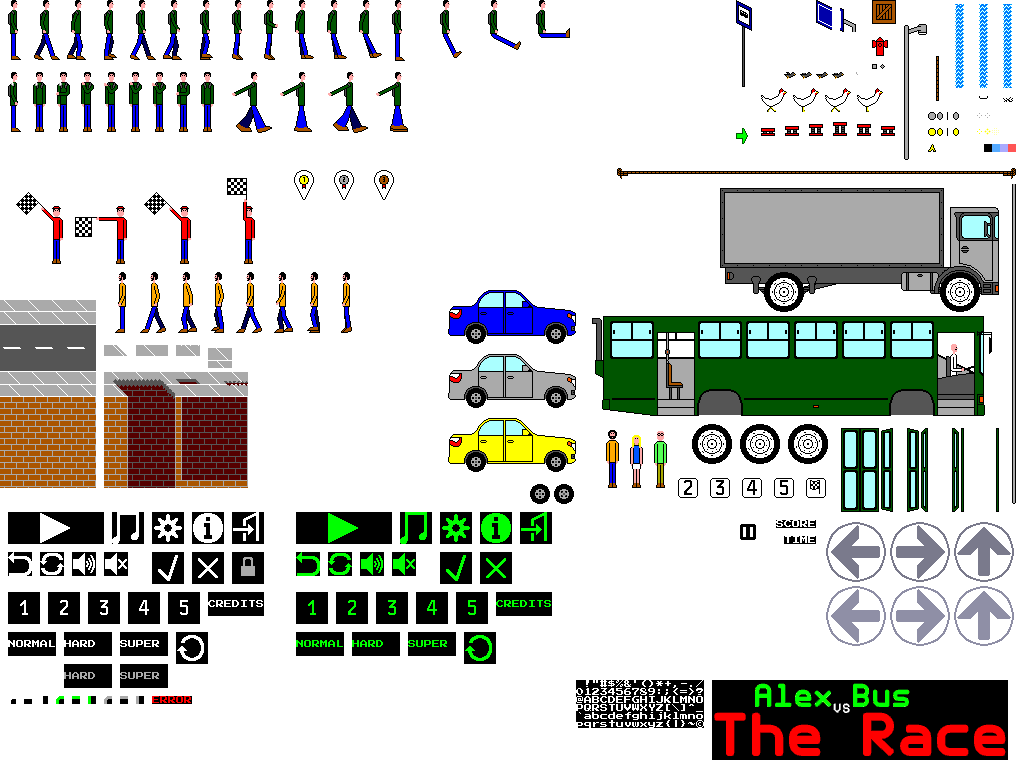
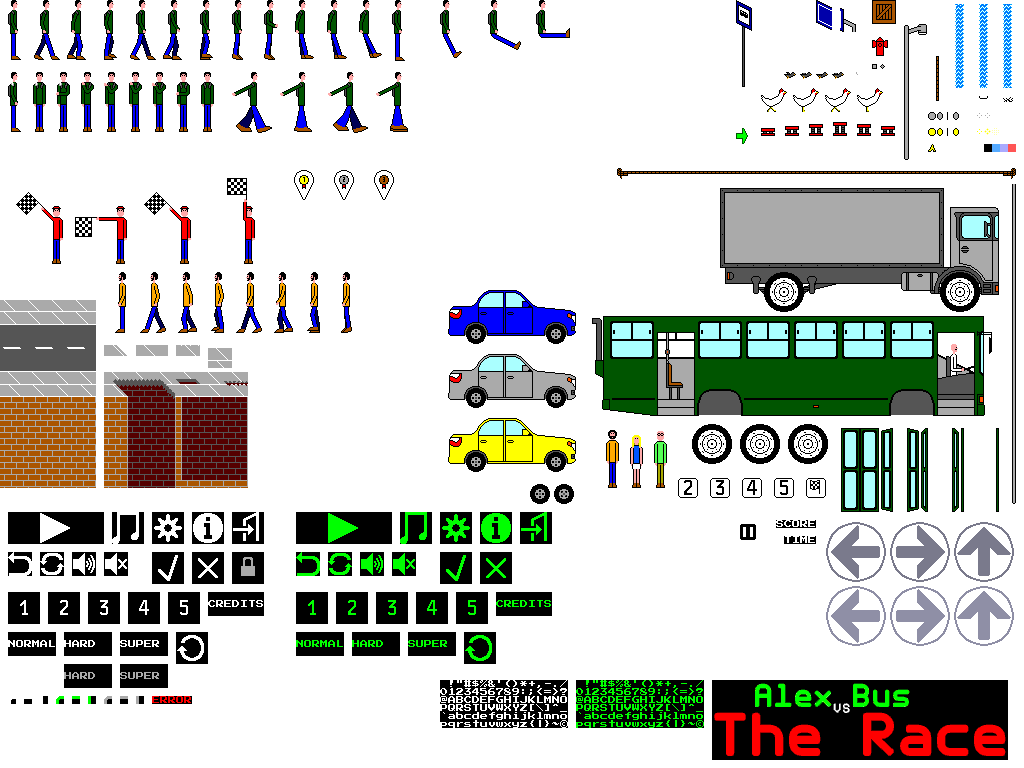
Green characters in About and Credits dialogs

Changed region(s): [[0.4062, 0.875, 0.6875, 0.9688]]

diff --git a/core/src/org/alexvsbus/Defs.java b/core/src/org/alexvsbus/Defs.java
@@ -500,115 +500,116 @@ public class Defs {
     static final int SPR_CAR_SILVER = 19;
     static final int SPR_CAR_YELLOW = 20;
     static final int SPR_CAR_WHEEL = 21;
-    static final int SPR_CHARSET = 22;
-    static final int SPR_COIN_SILVER = 23;
-    static final int SPR_COIN_GOLD = 24;
-    static final int SPR_COIN_SPARK_SILVER = 25;
-    static final int SPR_COIN_SPARK_GOLD = 26;
-    static final int SPR_CRACK_PARTICLE = 27;
-    static final int SPR_CRATE = 28;
-    static final int SPR_DEEP_HOLE_LEFT = 29;
-    static final int SPR_DEEP_HOLE_LEFT_FG = 30;
-    static final int SPR_DEEP_HOLE_MIDDLE = 31;
-    static final int SPR_DEEP_HOLE_RIGHT = 32;
-    static final int SPR_DUNG = 33;
-    static final int SPR_ERROR = 34;
-    static final int SPR_FLAGMAN = 35;
-    static final int SPR_GUSH = 36;
-    static final int SPR_GUSH_CRACK = 37;
-    static final int SPR_GUSH_HOLE = 38;
-    static final int SPR_HEN = 39;
-    static final int SPR_HUD_SCORE = 40;
-    static final int SPR_HUD_TIME = 41;
-    static final int SPR_HYDRANT = 42;
-    static final int SPR_LOGO = 43;
-    static final int SPR_MEDAL1 = 44;
-    static final int SPR_MEDAL2 = 45;
-    static final int SPR_MEDAL3 = 46;
-    static final int SPR_OVERHEAD_SIGN = 47;
-    static final int SPR_OVERHEAD_SIGN_BASE = 48;
-    static final int SPR_OVERHEAD_SIGN_BASE_TOP = 49;
-    static final int SPR_PASSAGEWAY_LEFT = 50;
-    static final int SPR_PASSAGEWAY_LEFT_FG = 51;
-    static final int SPR_PASSAGEWAY_MIDDLE = 52;
-    static final int SPR_PASSAGEWAY_RIGHT = 53;
-    static final int SPR_PASSAGEWAY_RIGHT_FG = 54;
-    static final int SPR_PASSAGEWAY_RIGHT_CLOSED = 55;
-    static final int SPR_PAUSE = 56;
-    static final int SPR_PLAYER_STAND = 57;
-    static final int SPR_PLAYER_WALK = 58;
-    static final int SPR_PLAYER_JUMP = 59;
-    static final int SPR_PLAYER_GRABROPE = 60;
-    static final int SPR_PLAYER_THROWBACK = 61;
-    static final int SPR_PLAYER_SLIP = 62;
-    static final int SPR_PLAYER_RUN = 63;
-    static final int SPR_PLAYER_CLEAN_DUNG = 64;
-    static final int SPR_POLE = 65;
-    static final int SPR_PUSH_ARROW = 66;
-    static final int SPR_ROPE_HORIZONTAL = 67;
-    static final int SPR_ROPE_VERTICAL = 68;
-    static final int SPR_SPRING = 69;
-    static final int SPR_TOUCH_LEFT = 70;
-    static final int SPR_TOUCH_LEFT_HELD = 71;
-    static final int SPR_TOUCH_RIGHT = 72;
-    static final int SPR_TOUCH_RIGHT_HELD = 73;
-    static final int SPR_TOUCH_JUMP = 74;
-    static final int SPR_TOUCH_JUMP_HELD = 75;
-    static final int SPR_TRUCK = 76;
-    static final int SPR_DIALOG_PLAY = 77;
-    static final int SPR_DIALOG_PLAY_SELECTED = 78;
-    static final int SPR_DIALOG_JUKEBOX = 79;
-    static final int SPR_DIALOG_JUKEBOX_SELECTED = 80;
-    static final int SPR_DIALOG_OPTIONS = 81;
-    static final int SPR_DIALOG_OPTIONS_SELECTED = 82;
-    static final int SPR_DIALOG_ABOUT = 83;
-    static final int SPR_DIALOG_ABOUT_SELECTED = 84;
-    static final int SPR_DIALOG_QUIT = 85;
-    static final int SPR_DIALOG_QUIT_SELECTED = 86;
-    static final int SPR_DIALOG_RETURN = 87;
-    static final int SPR_DIALOG_RETURN_SELECTED = 88;
-    static final int SPR_DIALOG_CREDITS = 89;
-    static final int SPR_DIALOG_CREDITS_SELECTED = 90;
-    static final int SPR_DIALOG_RESET = 91;
-    static final int SPR_DIALOG_RESET_SELECTED = 92;
-    static final int SPR_DIALOG_AUDIO_ON = 93;
-    static final int SPR_DIALOG_AUDIO_ON_SELECTED = 94;
-    static final int SPR_DIALOG_AUDIO_OFF = 95;
-    static final int SPR_DIALOG_AUDIO_OFF_SELECTED = 96;
-    static final int SPR_DIALOG_TRYAGAIN = 97;
-    static final int SPR_DIALOG_TRYAGAIN_SELECTED = 98;
-    static final int SPR_DIALOG_CONFIRM = 99;
-    static final int SPR_DIALOG_CONFIRM_SELECTED = 100;
-    static final int SPR_DIALOG_CANCEL = 101;
-    static final int SPR_DIALOG_CANCEL_SELECTED = 102;
-    static final int SPR_DIALOG_NORMAL = 103;
-    static final int SPR_DIALOG_NORMAL_SELECTED = 104;
-    static final int SPR_DIALOG_HARD = 105;
-    static final int SPR_DIALOG_HARD_SELECTED = 106;
-    static final int SPR_DIALOG_HARD_DISABLED = 107;
-    static final int SPR_DIALOG_SUPER = 108;
-    static final int SPR_DIALOG_SUPER_SELECTED = 109;
-    static final int SPR_DIALOG_SUPER_DISABLED = 110;
-    static final int SPR_DIALOG_1 = 111;
-    static final int SPR_DIALOG_1_SELECTED = 112;
-    static final int SPR_DIALOG_2 = 113;
-    static final int SPR_DIALOG_2_SELECTED = 114;
-    static final int SPR_DIALOG_3 = 115;
-    static final int SPR_DIALOG_3_SELECTED = 116;
-    static final int SPR_DIALOG_4 = 117;
-    static final int SPR_DIALOG_4_SELECTED = 118;
-    static final int SPR_DIALOG_5 = 119;
-    static final int SPR_DIALOG_5_SELECTED = 120;
-    static final int SPR_DIALOG_LOCKED = 121;
-    static final int SPR_DIALOG_BORDER_TOPLEFT = 122;
-    static final int SPR_DIALOG_BORDER_TOPLEFT_SELECTED = 123;
-    static final int SPR_DIALOG_BORDER_TOPLEFT_DISABLED = 124;
-    static final int SPR_DIALOG_BORDER_TOP = 125;
-    static final int SPR_DIALOG_BORDER_TOP_SELECTED = 126;
-    static final int SPR_DIALOG_BORDER_TOP_DISABLED = 127;
-    static final int SPR_DIALOG_BORDER_LEFT = 128;
-    static final int SPR_DIALOG_BORDER_LEFT_SELECTED = 129;
-    static final int SPR_DIALOG_BORDER_LEFT_DISABLED = 130;
+    static final int SPR_CHARSET_WHITE = 22;
+    static final int SPR_CHARSET_GREEN = 23;
+    static final int SPR_COIN_SILVER = 24;
+    static final int SPR_COIN_GOLD = 25;
+    static final int SPR_COIN_SPARK_SILVER = 26;
+    static final int SPR_COIN_SPARK_GOLD = 27;
+    static final int SPR_CRACK_PARTICLE = 28;
+    static final int SPR_CRATE = 29;
+    static final int SPR_DEEP_HOLE_LEFT = 30;
+    static final int SPR_DEEP_HOLE_LEFT_FG = 31;
+    static final int SPR_DEEP_HOLE_MIDDLE = 32;
+    static final int SPR_DEEP_HOLE_RIGHT = 33;
+    static final int SPR_DUNG = 34;
+    static final int SPR_ERROR = 35;
+    static final int SPR_FLAGMAN = 36;
+    static final int SPR_GUSH = 37;
+    static final int SPR_GUSH_CRACK = 38;
+    static final int SPR_GUSH_HOLE = 39;
+    static final int SPR_HEN = 40;
+    static final int SPR_HUD_SCORE = 41;
+    static final int SPR_HUD_TIME = 42;
+    static final int SPR_HYDRANT = 43;
+    static final int SPR_LOGO = 44;
+    static final int SPR_MEDAL1 = 45;
+    static final int SPR_MEDAL2 = 46;
+    static final int SPR_MEDAL3 = 47;
+    static final int SPR_OVERHEAD_SIGN = 48;
+    static final int SPR_OVERHEAD_SIGN_BASE = 49;
+    static final int SPR_OVERHEAD_SIGN_BASE_TOP = 50;
+    static final int SPR_PASSAGEWAY_LEFT = 51;
+    static final int SPR_PASSAGEWAY_LEFT_FG = 52;
+    static final int SPR_PASSAGEWAY_MIDDLE = 53;
+    static final int SPR_PASSAGEWAY_RIGHT = 54;
+    static final int SPR_PASSAGEWAY_RIGHT_FG = 55;
+    static final int SPR_PASSAGEWAY_RIGHT_CLOSED = 56;
+    static final int SPR_PAUSE = 57;
+    static final int SPR_PLAYER_STAND = 58;
+    static final int SPR_PLAYER_WALK = 59;
+    static final int SPR_PLAYER_JUMP = 60;
+    static final int SPR_PLAYER_GRABROPE = 61;
+    static final int SPR_PLAYER_THROWBACK = 62;
+    static final int SPR_PLAYER_SLIP = 63;
+    static final int SPR_PLAYER_RUN = 64;
+    static final int SPR_PLAYER_CLEAN_DUNG = 65;
+    static final int SPR_POLE = 66;
+    static final int SPR_PUSH_ARROW = 67;
+    static final int SPR_ROPE_HORIZONTAL = 68;
+    static final int SPR_ROPE_VERTICAL = 69;
+    static final int SPR_SPRING = 70;
+    static final int SPR_TOUCH_LEFT = 71;
+    static final int SPR_TOUCH_LEFT_HELD = 72;
+    static final int SPR_TOUCH_RIGHT = 73;
+    static final int SPR_TOUCH_RIGHT_HELD = 74;
+    static final int SPR_TOUCH_JUMP = 75;
+    static final int SPR_TOUCH_JUMP_HELD = 76;
+    static final int SPR_TRUCK = 77;
+    static final int SPR_DIALOG_PLAY = 78;
+    static final int SPR_DIALOG_PLAY_SELECTED = 79;
+    static final int SPR_DIALOG_JUKEBOX = 80;
+    static final int SPR_DIALOG_JUKEBOX_SELECTED = 81;
+    static final int SPR_DIALOG_OPTIONS = 82;
+    static final int SPR_DIALOG_OPTIONS_SELECTED = 83;
+    static final int SPR_DIALOG_ABOUT = 84;
+    static final int SPR_DIALOG_ABOUT_SELECTED = 85;
+    static final int SPR_DIALOG_QUIT = 86;
+    static final int SPR_DIALOG_QUIT_SELECTED = 87;
+    static final int SPR_DIALOG_RETURN = 88;
+    static final int SPR_DIALOG_RETURN_SELECTED = 89;
+    static final int SPR_DIALOG_CREDITS = 90;
+    static final int SPR_DIALOG_CREDITS_SELECTED = 91;
+    static final int SPR_DIALOG_RESET = 92;
+    static final int SPR_DIALOG_RESET_SELECTED = 93;
+    static final int SPR_DIALOG_AUDIO_ON = 94;
+    static final int SPR_DIALOG_AUDIO_ON_SELECTED = 95;
+    static final int SPR_DIALOG_AUDIO_OFF = 96;
+    static final int SPR_DIALOG_AUDIO_OFF_SELECTED = 97;
+    static final int SPR_DIALOG_TRYAGAIN = 98;
+    static final int SPR_DIALOG_TRYAGAIN_SELECTED = 99;
+    static final int SPR_DIALOG_CONFIRM = 100;
+    static final int SPR_DIALOG_CONFIRM_SELECTED = 101;
+    static final int SPR_DIALOG_CANCEL = 102;
+    static final int SPR_DIALOG_CANCEL_SELECTED = 103;
+    static final int SPR_DIALOG_NORMAL = 104;
+    static final int SPR_DIALOG_NORMAL_SELECTED = 105;
+    static final int SPR_DIALOG_HARD = 106;
+    static final int SPR_DIALOG_HARD_SELECTED = 107;
+    static final int SPR_DIALOG_HARD_DISABLED = 108;
+    static final int SPR_DIALOG_SUPER = 109;
+    static final int SPR_DIALOG_SUPER_SELECTED = 110;
+    static final int SPR_DIALOG_SUPER_DISABLED = 111;
+    static final int SPR_DIALOG_1 = 112;
+    static final int SPR_DIALOG_1_SELECTED = 113;
+    static final int SPR_DIALOG_2 = 114;
+    static final int SPR_DIALOG_2_SELECTED = 115;
+    static final int SPR_DIALOG_3 = 116;
+    static final int SPR_DIALOG_3_SELECTED = 117;
+    static final int SPR_DIALOG_4 = 118;
+    static final int SPR_DIALOG_4_SELECTED = 119;
+    static final int SPR_DIALOG_5 = 120;
+    static final int SPR_DIALOG_5_SELECTED = 121;
+    static final int SPR_DIALOG_LOCKED = 122;
+    static final int SPR_DIALOG_BORDER_TOPLEFT = 123;
+    static final int SPR_DIALOG_BORDER_TOPLEFT_SELECTED = 124;
+    static final int SPR_DIALOG_BORDER_TOPLEFT_DISABLED = 125;
+    static final int SPR_DIALOG_BORDER_TOP = 126;
+    static final int SPR_DIALOG_BORDER_TOP_SELECTED = 127;
+    static final int SPR_DIALOG_BORDER_TOP_DISABLED = 128;
+    static final int SPR_DIALOG_BORDER_LEFT = 129;
+    static final int SPR_DIALOG_BORDER_LEFT_SELECTED = 130;
+    static final int SPR_DIALOG_BORDER_LEFT_DISABLED = 131;
 
     static final int LOGO_WIDTH = 296;
 
@@ -852,7 +853,8 @@ public class Defs {
         448,  352,  136, 56,  //SPR_CAR_SILVER
         448,  416,  136, 56,  //SPR_CAR_YELLOW
         528,  480,  24,  24,  //SPR_CAR_WHEEL
-        576,  680,  8,   8,   //SPR_CHARSET
+        440,  680,  8,   8,   //SPR_CHARSET_WHITE
+        576,  680,  8,   8,   //SPR_CHARSET_GREEN
         928,  112,  8,   8,   //SPR_COIN_SILVER
         928,  128,  8,   8,   //SPR_COIN_GOLD
         976,  112,  8,   8,   //SPR_COIN_SPARK_SILVER

diff --git a/core/src/org/alexvsbus/Dialogs.java b/core/src/org/alexvsbus/Dialogs.java
@@ -585,16 +585,16 @@ class Dialogs {
         switch (dialogType) {
             case DLG_ABOUT:
                 ctx.text =
-                    "Alex vs Bus: The Race\n" +
-                    "\177 2021-2022 M374LX\n" + // \177 = copyright symbol
+                    (char)0x1B + "Alex vs Bus: The Race\n" +
+                    (char)0x7F + " 2021-2022 M374LX\n" + // 0x7F = copyright symbol
                     "\n" +
-                    "Version\n" +
+                    (char)0x1B + "Version\n" +
                     " " + VERSION + "\n" +
                     "\n" +
-                    "Repository\n" +
+                    (char)0x1B + "Repository\n" +
                     " " + REPOSITORY + "\n" +
                     "\n" +
-                    "Licenses\n" +
+                    (char)0x1B + "Licenses\n" +
                     " The code is under GNU GPLv3, while the\n" +
                     " assets are under CC BY-SA 4.0.";
                 ctx.textOffsetX = -47;
@@ -605,19 +605,22 @@ class Dialogs {
 
             case DLG_CREDITS:
                 ctx.text =
-                    "M374LX (http://m374lx.users.sourceforge.net)\n" +
+                    (char)0x1B + "M374LX" + (char)0x1B +
+                            " (http://m374lx.users.sourceforge.net)\n" +
                     " Game design, programming, music, SFX, graphics\n" +
                     "\n" +
-                    "Hoton Bastos\n" +
+                    (char)0x1B + "Hoton Bastos\n" +
                     " Additional game design\n" +
                     "\n" +
-                    "Harim Pires\n" +
+                    (char)0x1B + "Harim Pires\n" +
                     " Testing\n" +
                     "\n" +
-                    "Codeman38 (https://www.zone38.net)\n" +
+                    (char)0x1B + "Codeman38" + (char)0x1B +
+                            " (https://www.zone38.net)\n" +
                     " \"Press Start 2P\" font\n" +
                     "\n" +
-                    "YoWorks (https://www.yoworks.com)\n" +
+                    (char)0x1B + "YoWorks" + (char)0x1B +
+                            " (https://www.yoworks.com)\n" +
                     " \"Telegrama\" font";
                 ctx.textOffsetX = -47;
                 ctx.textOffsetY = -14;

diff --git a/core/src/org/alexvsbus/Renderer.java b/core/src/org/alexvsbus/Renderer.java
@@ -810,32 +810,43 @@ class Renderer {
         }
 
         for (i = numDigits - 1; i >= 0; i--) {
-            drawSpritePart(SPR_CHARSET, x, y, digitsTemp[i] * 8, 8, 8, 8);
+            drawSpritePart(SPR_CHARSET_WHITE, x, y, digitsTemp[i] * 8, 8, 8, 8);
             x += 8;
         }
     }
 
+    //The character 0x1B (which corresponds to ASCII Escape) is used by this
+    //method to switch between white and green characters
+    //
+    //The newline (\n) also reverts to white
     void drawText(String text, int x, int y) {
         int i;
         int len = text.length();
 
+        int spr;
         int dx = x;
         int dy = y;
+
+        boolean green = false;
 
         for (i = 0; i < len; i++) {
             int c, sx, sy;
 
             c = text.charAt(i);
 
-            if (c == '\n') {
+            if (c == 0x1B) {
+                green = !green;
+            } else if (c == '\n') {
                 dy += 8;
                 dx = x;
+                green = false;
             } else {
                 c -= ' ';
                 sx = (c % 16) * 8;
                 sy = (c / 16) * 8;
+                spr = green ? SPR_CHARSET_GREEN : SPR_CHARSET_WHITE;
 
-                drawSpritePart(SPR_CHARSET, dx, dy, sx, sy, 8, 8);
+                drawSpritePart(spr, dx, dy, sx, sy, 8, 8);
 
                 dx += 8;
             }
